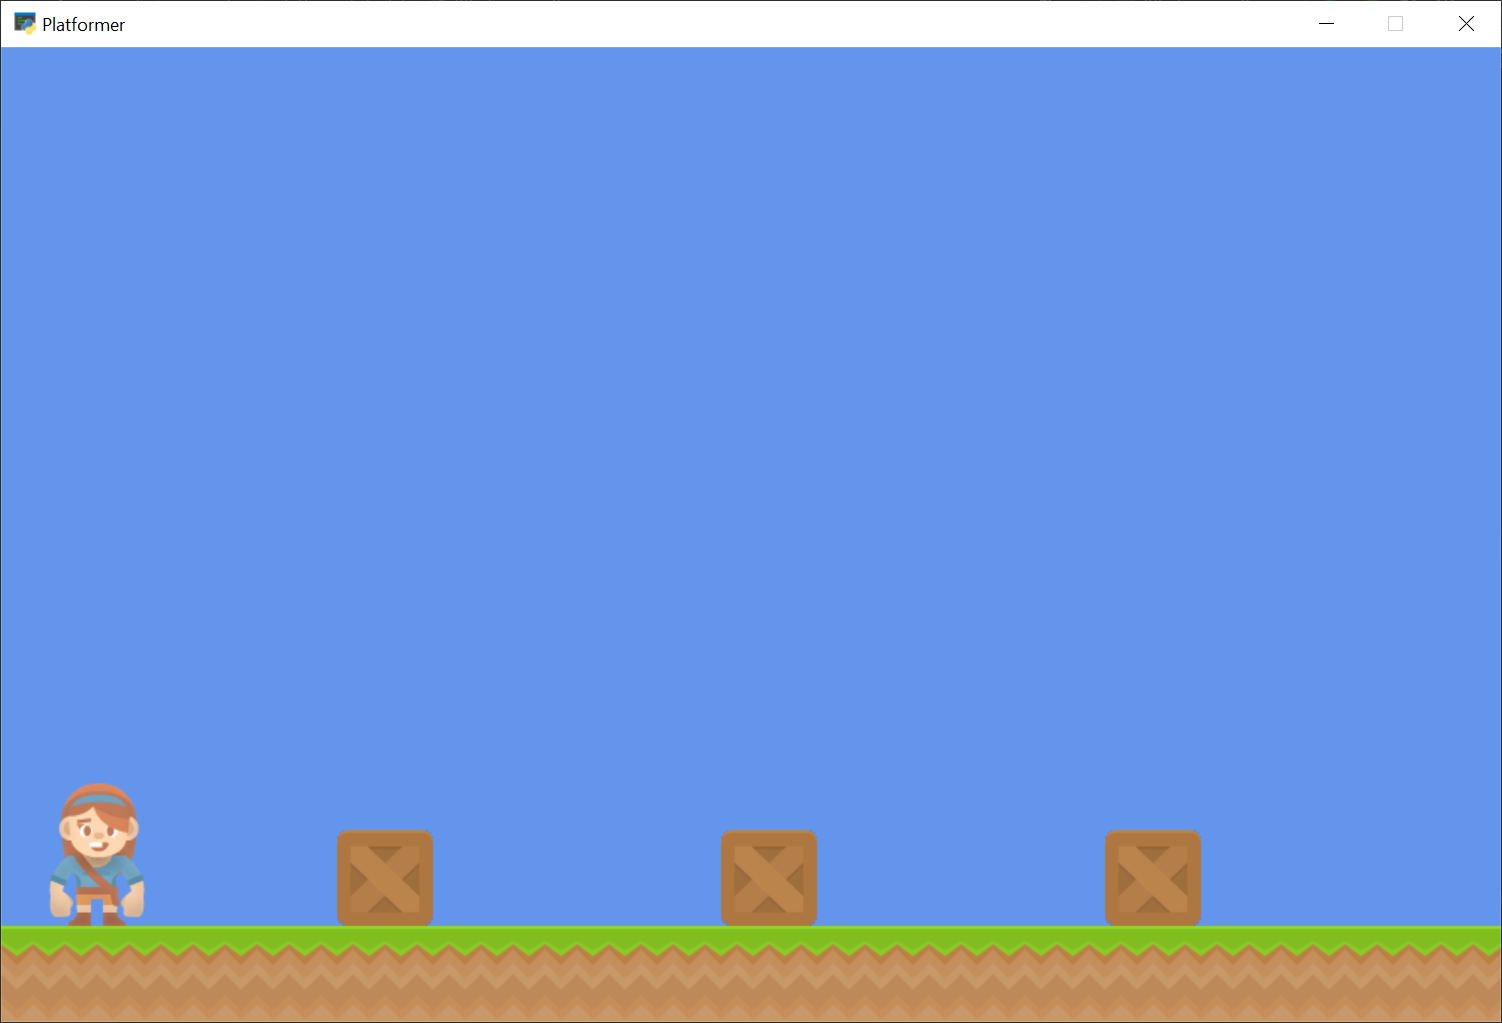
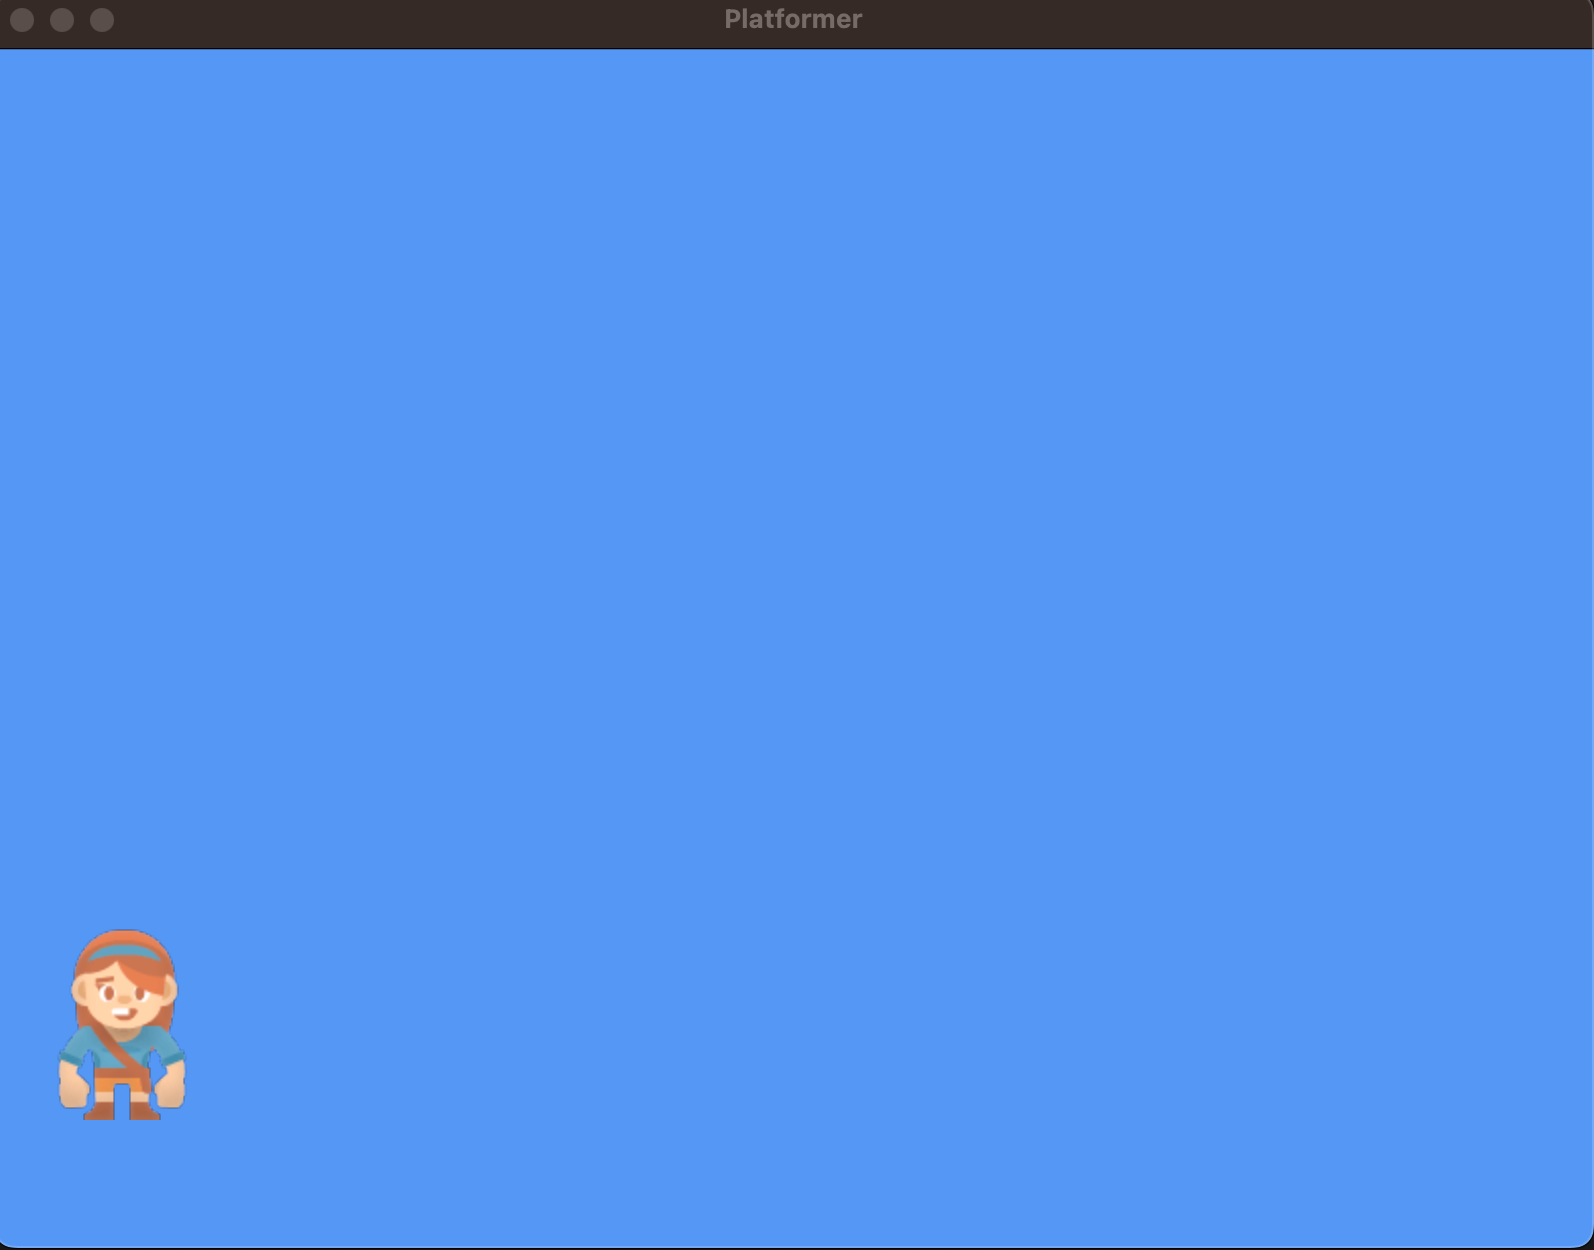
Initial Chapter 2 Rewrite

Changed region(s): [[0.0, 0.7273, 1.0, 1.0], [0.0, 0.0, 1.0, 0.0606]]

diff --git a/arcade/examples/platform_tutorial/02_draw_sprites.py b/arcade/examples/platform_tutorial/02_draw_sprites.py
@@ -6,13 +6,9 @@ python -m arcade.examples.platform_tutorial.02_draw_sprites
 import arcade
 
 # Constants
-SCREEN_WIDTH = 1000
-SCREEN_HEIGHT = 650
+SCREEN_WIDTH = 800
+SCREEN_HEIGHT = 600
 SCREEN_TITLE = "Platformer"
-
-# Constants used to scale our sprites from their original size
-CHARACTER_SCALING = 1
-TILE_SCALING = 0.5
 
 
 class MyGame(arcade.Window):
@@ -25,48 +21,23 @@ class MyGame(arcade.Window):
         # Call the parent class and set up the window
         super().__init__(SCREEN_WIDTH, SCREEN_HEIGHT, SCREEN_TITLE)
 
-        # These are 'lists' that keep track of our sprites. Each sprite should
-        # go into a list.
-        self.wall_list = None
-        self.player_list = None
+        # Variable to hold our texture for our player
+        self.player_texture = arcade.load_texture(":resources:images/animated_characters/female_adventurer/femaleAdventurer_idle.png")
 
         # Separate variable that holds the player sprite
-        self.player_sprite = None
+        self.player_sprite = arcade.Sprite(self.player_texture)
+        self.player_sprite.center_x = 64
+        self.player_sprite.center_y = 128
+
+        # SpriteList for our player
+        self.player_list = arcade.SpriteList()
+        self.player_list.append(self.player_sprite)
 
         self.background_color = arcade.csscolor.CORNFLOWER_BLUE
 
     def setup(self):
         """Set up the game here. Call this function to restart the game."""
-        # Create the Sprite lists
-        self.player_list = arcade.SpriteList()
-        self.wall_list = arcade.SpriteList(use_spatial_hash=True)
-
-        # Set up the player, specifically placing it at these coordinates.
-        image_source = ":resources:images/animated_characters/female_adventurer/femaleAdventurer_idle.png"
-        self.player_sprite = arcade.Sprite(image_source, CHARACTER_SCALING)
-        self.player_sprite.center_x = 64
-        self.player_sprite.center_y = 128
-        self.player_list.append(self.player_sprite)
-
-        # Create the ground
-        # This shows using a loop to place multiple sprites horizontally
-        for x in range(0, 1250, 64):
-            wall = arcade.Sprite(":resources:images/tiles/grassMid.png", TILE_SCALING)
-            wall.center_x = x
-            wall.center_y = 32
-            self.wall_list.append(wall)
-
-        # Put some crates on the ground
-        # This shows using a coordinate list to place sprites
-        coordinate_list = [[512, 96], [256, 96], [768, 96]]
-
-        for coordinate in coordinate_list:
-            # Add a crate on the ground
-            wall = arcade.Sprite(
-                ":resources:images/tiles/boxCrate_double.png", TILE_SCALING
-            )
-            wall.position = coordinate
-            self.wall_list.append(wall)
+        pass
 
     def on_draw(self):
         """Render the screen."""
@@ -75,7 +46,6 @@ class MyGame(arcade.Window):
         self.clear()
 
         # Draw our sprites
-        self.wall_list.draw()
         self.player_list.draw()
 
 

diff --git a/arcade/examples/platform_tutorial/01_open_window.py b/arcade/examples/platform_tutorial/01_open_window.py
@@ -6,8 +6,8 @@ python -m arcade.examples.platform_tutorial.01_open_window
 import arcade
 
 # Constants
-SCREEN_WIDTH = 1000
-SCREEN_HEIGHT = 650
+SCREEN_WIDTH = 800
+SCREEN_HEIGHT = 600
 SCREEN_TITLE = "Platformer"
 
 

diff --git a/doc/tutorials/platform_tutorial/step_02.rst b/doc/tutorials/platform_tutorial/step_02.rst
@@ -1,110 +1,118 @@
-
-
 .. _platformer_part_two:
 
-Step 2 - Add Sprites
---------------------
+Step 2 - Textures, Sprites, and SpriteLists
+-------------------------------------------
 
-Our next step is to add some sprites_, which are graphics we can see and interact
-with on the screen.
+Our next step in this tutorial is to draw some things on the Screen. In order to
+do that we need to cover a few topics.
 
-.. _sprites: https://en.wikipedia.org/wiki/Sprite_(computer_graphics)
+In this chapter we'll cover:
+
+* Textures
+
+  * See documentation for :class:`arcade.Texture`
+
+* Sprites
+
+  * See documentation for :class:`arcade.Sprite`
+
+* SpriteLists
+
+  * See documentation for :class:`arcade.SpriteList`
+
+At the end of this chapter, we'll have something that looks like this. It's largely the
+same as last chapter, but now we are drawing a character onto the screen:
 
 .. image:: images/title_02.png
     :width: 70%
 
-Setup vs. Init
-~~~~~~~~~~~~~~
+Textures
+~~~~~~~~
 
-In the next code example, ``02_draw_sprites``,
-we'll have both an ``__init__`` method and a
-``setup``.
+Textures are largely just an object to contain image data. Whenever you load an image
+file in Arcade, for example a ``.png`` or ``.jpeg`` file. It becomes a Texture.
 
-The ``__init__`` creates the variables. The variables are set to values such as
-0 or ``None``. The ``setup`` actually creates the object instances, such as
-graphical sprites.
+To do this, internally Arcade uses Pyglet to load the image data, and the texture is
+responsible for keeping track of this image data.
 
-I often get the very reasonable question, "Why have two methods? Why not just
-put everything into ``__init__``? Seems like we are doing twice the work."
-Here's why.
-With a ``setup`` method split out, later on we can easily add
-"restart/play again" functionality to the game.
-A simple call to ``setup`` will reset everything.
-Later, we can expand our game with different levels, and have functions such as
-``setup_level_1`` and ``setup_level_2``.
+We can create a texture with a simple command, this can be done inside of our ``__init__``
+function. Go ahead and create a texture that we will use to draw a player.
+
+.. code-block::
+
+    self.player_texture = arcade.load_texture(":resources:images/animated_characters/female_adventurer/femaleAdventurer_idle.png")
+
+.. note::
+
+    You might be wondering where this image file is coming from? And what is ``:resources:`` about?
+
+    The ``:resources:`` section of the string above is what Arcade calls a resource handle.
+    You can register your own resource handles to different asset directories. For example you
+    might want to have a ``:characters:`` and a ``:objects:`` handle.
+
+    However, you don't have to use a resource handle here, anywhere that you can load files in Arcade will
+    accept resource handles, or just strings to filepaths, or ``Path`` objects from ``pathlib``
+
+    Arcade includes the ``:resources:`` handle with a bunch of built-in assets from `kenney <https://kenney.nl>`_.
+
+    For more information checkout :ref:`resources`
+
+Sprites
+~~~~~~~
+
+If Textures are an instance of a particular image, then :class:`arcade.Sprite` is an instance of that image
+on the screen. Say we have a ground or wall texture. We only have one instance of the texture, but we can create 
+multiple instances of Sprite, because we want to have many walls. These will use the same texture, but draw it
+in different positions, or even with different scaling, rotation, or colors/post-processing effects.
+
+Creating a Sprite is simple, we can make one for our player in our ``__init__`` function, and then set it's position.
+
+.. code-block::
+
+    self.player_sprite = arcade.Sprite(self.player_texture)
+    self.player_sprite.center_x = 64
+    self.player_sprite.center_y = 128
+
+.. note::
+
+    You can also skip ``arcade.load_texture`` from the previous step and pass the image file to ``arcade.Sprite`` in place of the Texture object. 
+    A Texture will automatically be created for you. However, it may desirable in larger projects to manage your textures directly.
 
 Sprite Lists
 ~~~~~~~~~~~~
 
-Sprites are managed in lists. The ``SpriteList`` class optimizes drawing, movement,
-and collision detection.
+:class:`arcade.SpriteList` exists to draw a collection of Sprites all at once. Let's say for example that you have
+100,000 box Sprites that you want to draw. A naive implementation for this might do a for loop over
+all of your box sprites and call the ``draw()`` function on each one.
 
-We are using two logical groups in our game. A ``player_list`` for the player.
-A ``wall_list`` for walls we can't move through.
+This approach is extremely un-performant. Instead, you can add all of your boxes to a :class:`arcade.SpriteList`
+and then draw the SpriteList. Doing this, you are able to draw all 100,000 sprites for approximately the exact
+same cost as drawing one sprite.
+
+In this scenario, we would have 1 Texture, which is our image of the box. 100,000 Sprites using that texture, which are
+all at different positions, and 1 SpriteList containing the 100,000 Sprites.
+
+.. note::
+    This is due to Arcade being a heavily GPU based library. GPUs are really good at doing things in batches.
+    This means we can send all the information about our sprites to the GPU, and then tell it to draw them all
+    at once. However if we just draw one sprite at a time, then we have to go on a round trip from our CPU to
+    our GPU every time.
+
+Even if you are only drawing one Sprite, you should still create a SpriteList for it. Outside of small debugging
+it is never better to draw an individual Sprite than it is to add it to a SpriteList.
+
+Let's go ahead and create one for our player inside our ``__init__`` function, and add the player to it.
 
 .. code-block::
 
     self.player_list = arcade.SpriteList()
-    self.wall_list = arcade.SpriteList(use_spatial_hash=True)
-
-Sprite lists have an option to use something called "spatial hashing." Spatial
-hashing speeds the time it takes to find collisions, but increases the time it
-takes to move a sprite. Since I don't expect most of my walls to move,
-I'll turn on spatial hashing for these lists. My player moves around a lot,
-so I'll leave it off for her.
-
-Add Sprites to the Game
-~~~~~~~~~~~~~~~~~~~~~~~
-
-To create sprites we'll use the ``arcade.Sprite`` class.
-We can create an instance of the sprite class with code like this:
-
-.. code-block::
-
-    self.player_sprite = arcade.Sprite("images/player_1/player_stand.png", CHARACTER_SCALING)
-
-The first parameter is a string or path to the image you want it to load.
-An optional second parameter will scale the sprite up or down.
-If the second parameter (in this case a constant ``CHARACTER_SCALING``) is set to
-0.5, and the the sprite is 128x128, then both width and height will be scaled
-down 50% for a 64x64 sprite.
-
-.. sidebar:: Built-in Resources
-
-    The arcade library has a few built-in :ref:`resources` so we can run
-    examples without downloading images. If you see code samples where sprites
-    are loaded beginning with "resources", that's what's being referenced.
-
-Next, we need to tell *where* the sprite goes. You can use the attributes
-``center_x`` and ``center_y`` to position the sprite. You can also use ``top``,
-``bottom``, ``left``, and ``right`` to get or set the sprites location by an
-edge instead of the center. You can also use ``position`` attribute to set both the
-x and y at the same time.
-
-.. code-block::
-
-    self.player_sprite.center_x = 64
-    self.player_sprite.center_y = 120
-
-Finally, all instances of the ``Sprite`` class need to go in a ``SpriteList``
-class.
-
-.. code-block::
-
     self.player_list.append(self.player_sprite)
 
-We manage groups of sprites by the list that they are in.
-In the example below there's a ``wall_list`` that will hold everything that the
-player character can't walk through. There's also a ``player_list``
-which holds only the player.
+Finally in our ``on_draw`` function, we can draw the SpriteList for the player:
 
-* Documentation for the :class:`arcade.Sprite` class
-* Documentation for the :class:`arcade.SpriteList` class
+.. code-block::
 
-Notice that the code creates ``Sprites`` three ways:
-
-* Creating a ``Sprite`` class, positioning it, adding it to the list
-* Create a series of sprites in a loop
+    self.player_list.draw()
 
 Source Code
 ~~~~~~~~~~~
@@ -112,16 +120,19 @@ Source Code
 .. literalinclude:: ../../../arcade/examples/platform_tutorial/02_draw_sprites.py
     :caption: 02_draw_sprites - Draw and Position Sprites
     :linenos:
-    :emphasize-lines: 11-13, 26-29, 36-67, 75-77
+    :emphasize-lines: 24-34, 48-49
 
-Running this code should result in some sprites drawn on the screen, as
-shown in the image at the top of this page.
+Running this code should result in a character being drawn on the screen, like in
+the image at the start of the chapter.
+
+* Documentation for the :class:`arcade.Texture` class
+* Documentation for the :class:`arcade.Sprite` class
+* Documentation for the :class:`arcade.SpriteList` class
 
 .. note::
 
     Once the code example is up and working, try adjusting the code for the following:
 
-    * Adjust the code and try putting sprites in new positions.
-    * Use different images for sprites (see :ref:`resources` for the build-in images, or use
-      your own images.)
-    * Practice placing individually, via a loop, and by coordinates in a list.
+    * Adjust the code and try putting the sprite in new positions(Try setting the positions using other attributes of Sprite)
+    * Use different images for the texture (see :ref:`resources` for the build-in images, or try using your own images.)
+    * Practice placing more sprites individually, via a loop, or by a list of coordinates.
